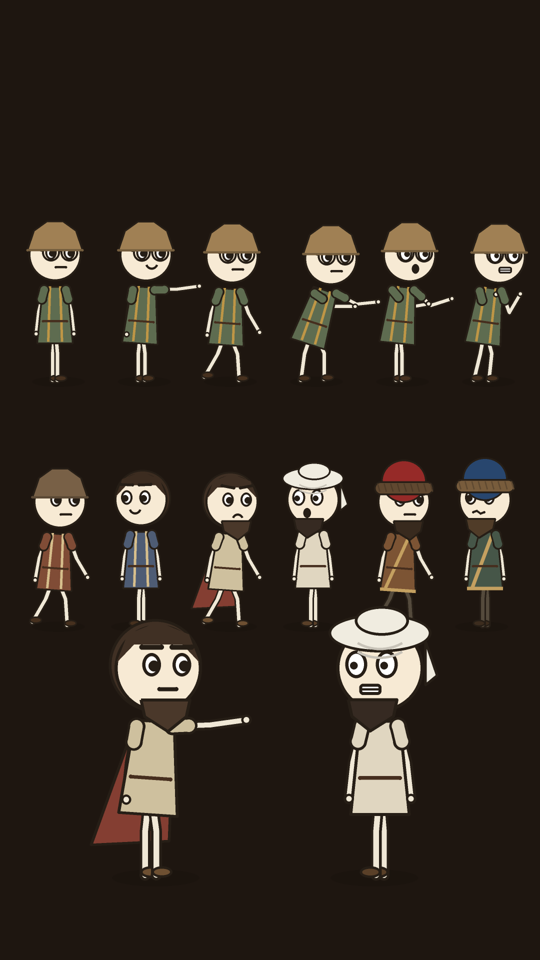
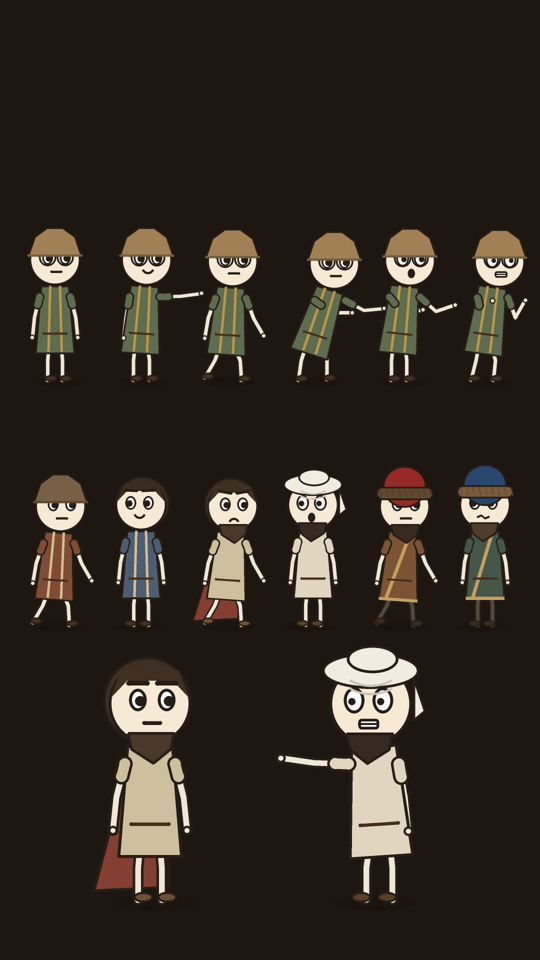
Rig: adopt the E012 front-on structure as the standard
Shoulders at the torso edges so arms are never cut off by clothing, E012
bone lengths scaled to engine units, long torso, hips apart, ground,
contact shadows, knee length garments. Match dissolves, staged machine
build and J cuts in E014.

Claude-Session: https://claude.ai/code/session_01G23pM3ps74w9jMbYiAaPd7

diff --git a/rig.py b/rig.py
@@ -2,7 +2,8 @@
 import math
 from lib import *
 
-L = dict(head=46, neck=8, torso=70, ua=40, fa=38, th=48, sh=46)
+L = dict(head=46, neck=0, torso=100, ua=38.5, fa=37, th=37, sh=35.5)
+SHO = 28; SHO_Y = 21; HIP = 10   # E012 frontal rig: shoulders at the torso edges, hips apart
 POSES = {
     'idle':    dict(torso=0, head=0, uaF=14, faF=6, uaB=-14, faB=-6, thF=5, shF=0, thB=-5, shB=0),
     'point':   dict(torso=4, head=0, uaF=92, faF=98, uaB=-10, faB=-6, thF=8, shF=0, thB=-6, shB=0),
@@ -45,8 +46,8 @@ def joints(p, f=1, legs=1.0, hands=None):
         d1 = d(a1, f); k1 = (o[0] + d1[0] * l1, o[1] + d1[1] * l1)
         d2 = d(a2, f); k2 = (k1[0] + d2[0] * l2, k1[1] + d2[1] * l2)
         return k1, k2
-    J['kneeF'], J['footF'] = chain(pel, p['thF'], th, p['shF'], sh)
-    J['kneeB'], J['footB'] = chain(pel, p['thB'], th, p['shB'], sh)
+    J['kneeF'], J['footF'] = chain((f * HIP, 0.0), p['thF'], th, p['shF'], sh)
+    J['kneeB'], J['footB'] = chain((-f * HIP, 0.0), p['thB'], th, p['shB'], sh)
     low = max(J['footF'][1], J['footB'][1])
     for k in list(J): J[k] = (J[k][0], J[k][1] - low)
     J['pelvis'] = (0.0, -low)
@@ -55,7 +56,7 @@ def joints(p, f=1, legs=1.0, hands=None):
     J['neck'] = (nx, ny)
     ht = math.radians(p['torso'] + p['head'])
     J['head'] = (nx + f * math.sin(ht) * (L['neck'] + L['head']), ny - math.cos(ht) * (L['neck'] + L['head']))
-    sF = (nx + f * 19, ny + 7); sB = (nx - f * 19, ny + 7)
+    sF = (nx + f * SHO, ny + SHO_Y); sB = (nx - f * SHO, ny + SHO_Y)
     J['shF'], J['shB'] = sF, sB
     J['elF'], J['haF'] = chain(sF, p['uaF'], L['ua'], p['faF'], L['fa'])
     J['elB'], J['haB'] = chain(sB, p['uaB'], L['ua'], p['faB'], L['fa'])
@@ -80,7 +81,7 @@ EXPR = {  # brow tilt (deg, + = inner up), brow raise, lid, mouth, eye scale, pu
 
 def face(pn, hx, hy, f, expr='neutral', look=(0.6, 0), blink=0.0, glasses=False, r=36, beard=None):
     bt, br, lid, mouth, es, ps = EXPR[expr]
-    ex0 = hx + f * 7
+    ex0 = hx + f * 2
     for i, side in enumerate((-1, 1)):
         ex = ex0 + side * 12.5; ey = hy - 3
         rx, ry = 7.6 * es, 9.6 * es
@@ -110,10 +111,10 @@ def face(pn, hx, hy, f, expr='neutral', look=(0.6, 0), blink=0.0, glasses=False,
         pn.line([(ex0 - 1.5, hy - 5), (ex0 + 1.5, hy - 5)], INK, 2.6, caps=False)
         pn.line([(ex0 - f * 24, hy - 5), (hx - f * r * 0.92, hy - 9)], INK, 2.4)
     if beard:
-        bx = hx + f * 6
+        bx = hx + f * 1
         pn.poly([(bx - 20, hy + 26), (bx + 20, hy + 26), (bx + 17, hy + r + 4), (bx + f * 2, hy + r + 16), (bx - 17, hy + r + 4)],
                 fill=beard, outline=INK, width=2.4)
-    mx, my = hx + f * 8, hy + 17
+    mx, my = hx + f * 2, hy + 17
     if mouth == 'flat': pn.line([(mx - 7, my), (mx + 7, my)], INK, 3.2)
     elif mouth == 'smile': pn.arc(mx, my - 6, 9, 20, 160, INK, 3.2)
     elif mouth == 'frown': pn.arc(mx, my + 7, 8, 200, 340, INK, 3.2)
@@ -168,12 +169,13 @@ def figure(pn, x, y, k, f=1, p='idle', out='keeper', expr='neutral', look=(0.6, 
     # legs
     hose = MAIL if O['hose'] == 'mail' else O['hose']
     for s in ('B', 'F'):
-        limb(pn, [J['pelvis'], J['knee' + s], J['foot' + s]], hose, 6)
+        hp_ = (J['pelvis'][0] + (f * HIP if s == 'F' else -f * HIP), J['pelvis'][1])
+        limb(pn, [hp_, J['knee' + s], J['foot' + s]], hose, 6.5)
         fx, fy = J['foot' + s]
         pn.ell(fx + f * 6, fy - 3, 11, 6, fill=O['boot'], outline=INK, width=2.6)
     # arms behind clothing
     def arm(s):
-        limb(pn, [J['sh' + s], J['el' + s], J['ha' + s]], None, 5.5)
+        limb(pn, [J['sh' + s], J['el' + s], J['ha' + s]], None, 6.5)
     if not arms_front:
         arm('B'); arm('F')
     # body garment
@@ -181,9 +183,9 @@ def figure(pn, x, y, k, f=1, p='idle', out='keeper', expr='neutral', look=(0.6, 
     ux, uy = f * math.sin(t), -math.cos(t)          # up along torso
     nx_, ny_ = -uy, ux                                # sideways
     nk = J['neck']; pl = J['pelvis']
-    hl_ = 58 if O.get('long') else 30
+    hl_ = 24
     hem = (pl[0] - ux * hl_, pl[1] - uy * hl_)
-    sw, hw = 21, 31 + (6 if O.get('long') else 0)
+    sw, hw = 25, 35
     body = [(nk[0] + nx_ * sw - ux * 2, nk[1] + ny_ * sw - uy * 2), (nk[0] - nx_ * sw - ux * 2, nk[1] - ny_ * sw - uy * 2),
             (hem[0] - nx_ * hw, hem[1] - ny_ * hw), (hem[0] + nx_ * hw, hem[1] + ny_ * hw)]
     if O.get('mail'):
@@ -234,7 +236,7 @@ def figure(pn, x, y, k, f=1, p='idle', out='keeper', expr='neutral', look=(0.6, 
             limb(pn, [J['sh' + s], J['el' + s], J['ha' + s]], MAIL, 13)
         else:
             sh_, el_ = J['sh' + s], J['el' + s]
-            limb(pn, [sh_, (lerp(sh_[0], el_[0], 0.42), lerp(sh_[1], el_[1], 0.42))], O['sleeve'], 13)
+            limb(pn, [sh_, (lerp(sh_[0], el_[0], 0.38), lerp(sh_[1], el_[1], 0.38))], O['sleeve'], 12)
         hx_, hy_ = J['ha' + s]
         pn.circ(hx_, hy_, 5.2, fill=BONE, outline=INK, width=2.4)
     # head and headwear

diff --git a/README.md b/README.md
@@ -39,7 +39,7 @@ Render in two parallel halves, check each frame count, join, then master: pre li
 
 **Audience.** Mostly US men aged 55 and over. One text element at a time, room to read, fewer but meaningful moves.
 
-**Rig.** Bone limbs (cream fill, dark outline), big head (about a third of body height) with round expressive eyes, shoulders at the torso edges so arms hang visibly at the sides, short sleeve caps, small hands and shoes. Garments stop at the knee so thighs and knees always show. Every figure casts a contact shadow and stands on solid ground.
+**Rig.** The E012 structure (see `docs/reference/e012_rig_sheet.png`): front-on body, big round head (about a third of body height) with round expressive eyes, a long torso, shoulders at the torso edges so the arms hang fully visible at the sides, hips set apart, bone limbs (cream fill, dark outline), short sleeve caps, small hands and shoes. In engine units: head r 46, torso 100, upper arm 38.5, forearm 37, thigh 37, shin 35.5, shoulders plus or minus 28, hips plus or minus 10. Garments stop at the knee so thighs and knees always show. Every figure casts a contact shadow and stands on solid ground.
 
 **Edit.**
 * Hard cuts by default, a slide push (about 0.35 s, always from the right) at 3 or 4 chapter turns, a 0.3 s dissolve on big brightness jumps, and match dissolves when the same object appears on both sides of a change. No radial wipes.
